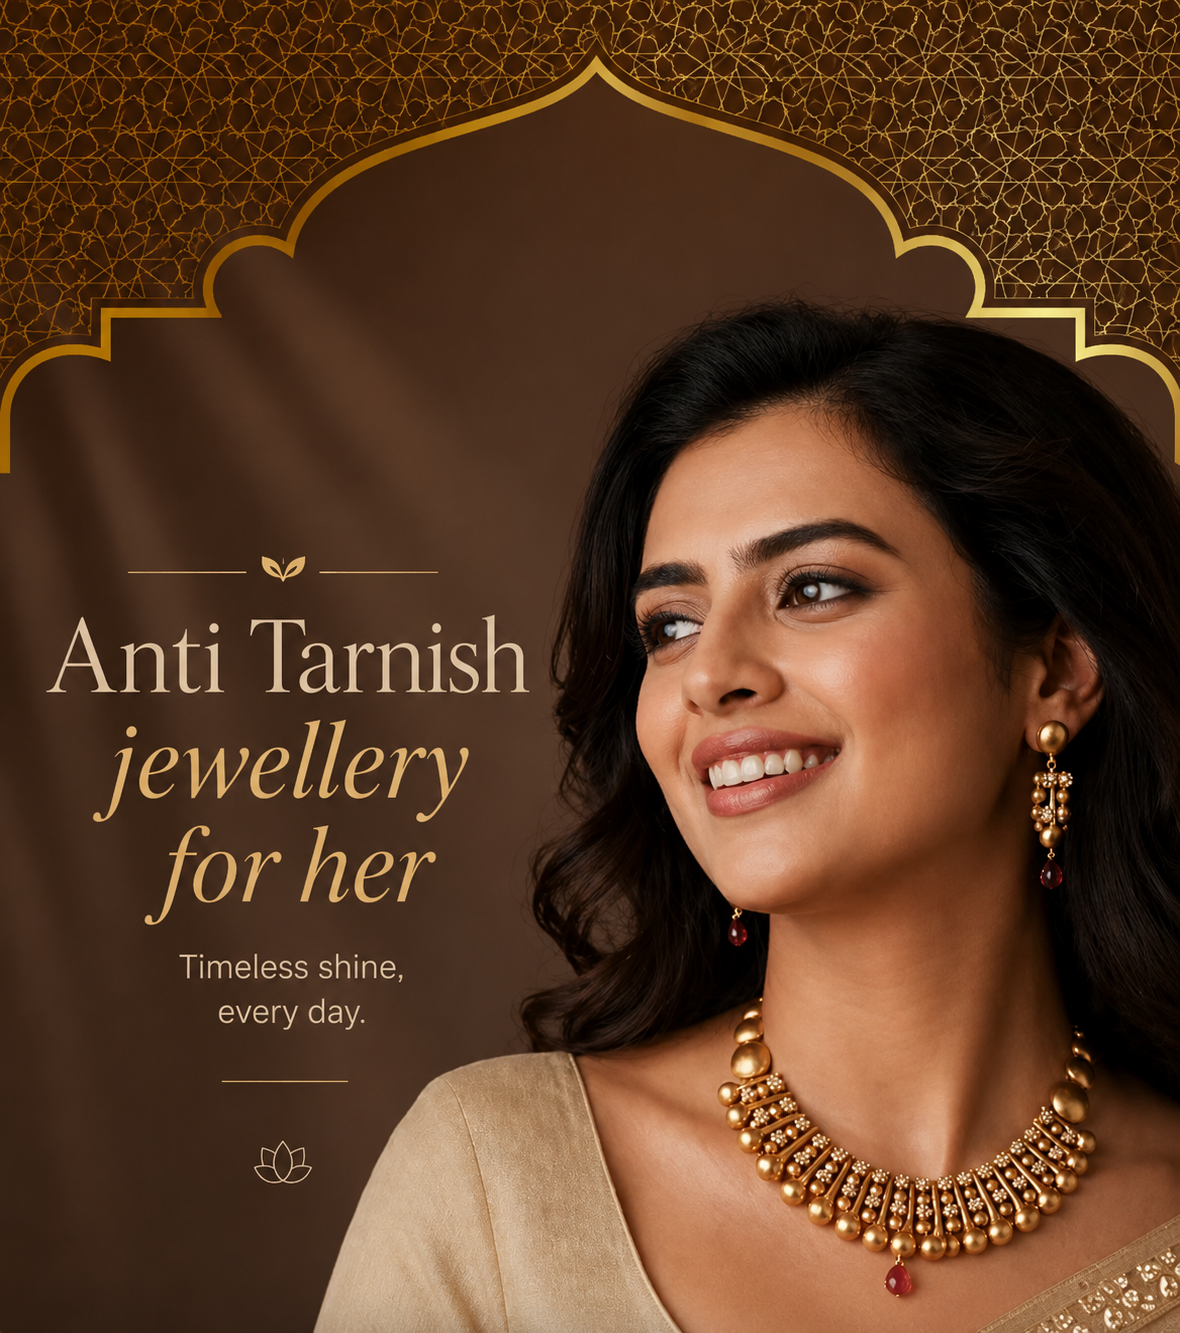
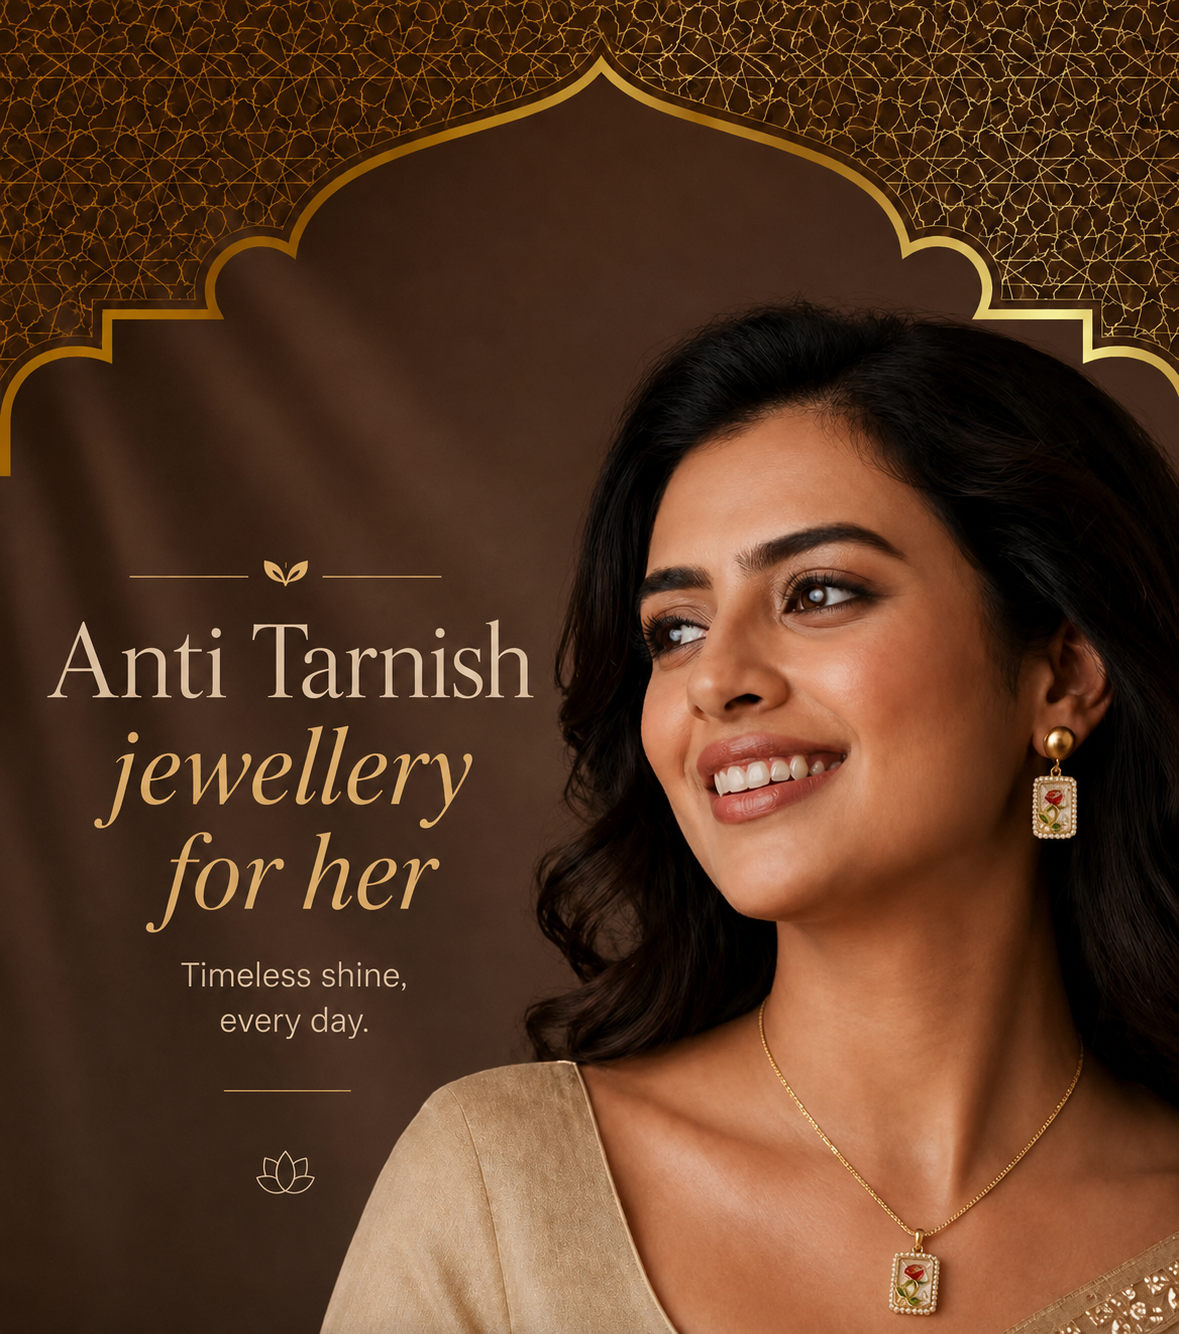
updates made

diff --git a/src/components/home/shop-by-gender.tsx b/src/components/home/shop-by-gender.tsx
@@ -13,16 +13,16 @@ export function ShopByGender() {
         <span className="hidden h-px w-24 bg-gradient-to-r from-transparent via-[var(--gold)] to-transparent sm:block" />
       </div>
 
-      <div className="grid grid-cols-1 sm:grid-cols-2">
+      <div className="grid grid-cols-1 items-start sm:grid-cols-2">
         <Link
           href={"/collections/anti-tarnish-womens" as Route}
-          className="focus-ring group relative block overflow-hidden"
+          className="focus-ring group block overflow-hidden"
         >
           <Image
             src="/assets/AntiTarnishForHer.png"
             alt="Anti Tarnish jewellery for her"
-            width={1180}
-            height={1333}
+            width={1179}
+            height={1334}
             sizes="(min-width: 640px) 50vw, 100vw"
             className="h-auto w-full transition-transform duration-700 group-hover:scale-[1.02]"
           />
@@ -30,7 +30,7 @@ export function ShopByGender() {
 
         <Link
           href={"/collections/anti-tarnish-mens" as Route}
-          className="focus-ring group relative block overflow-hidden"
+          className="focus-ring group block overflow-hidden"
         >
           <Image
             src="/assets/AntiTarnishForHim.png"

diff --git a/src/lib/shopify-collections.ts b/src/lib/shopify-collections.ts
@@ -77,7 +77,7 @@ export type ShopifyCollectionMeta = {
   image: string | null;
 };
 
-const BANGLE_SIZES = ["2/4", "2/6", "2/8"] as const;
+const BANGLE_SIZES = ["2-2", "2-4", "2-6", "2-8"] as const;
 
 function isBangle(node: ShopifyProductNode, collectionHandle: string): boolean {
   const name = node.title.toLowerCase();
@@ -107,10 +107,11 @@ function mapNode(node: ShopifyProductNode, collectionHandle: string): Product {
     node.tags.some((t) => t.toLowerCase().includes("rakhi")) ||
     collectionHandle === "rakhis" ||
     collectionHandle === "rakhi";
-  const material =
+  const rawMaterial =
     metafields.find((m) => m.key === "material")?.value ??
     node.tags.find((t) => t.startsWith("material:"))?.replace("material:", "") ??
     (isRakhi ? "Handcrafted" : deriveMaterialTag(node.description));
+  const material = rawMaterial?.toLowerCase() === "copper" ? "High Gold" : rawMaterial;
   const stone =
     metafields.find((m) => m.key === "stone")?.value ??
     node.tags.find((t) => t.startsWith("stone:"))?.replace("stone:", "") ??

diff --git a/src/components/product/product-actions.tsx b/src/components/product/product-actions.tsx
@@ -93,7 +93,7 @@ export function ProductActions({ productId, slug, productName, image, material, 
                 style={{
                   border:      selectedSize === s ? "1.5px solid var(--gold)" : "1.5px solid rgba(138,106,58,0.3)",
                   background:  selectedSize === s ? "var(--gold)" : "transparent",
-                  color:       selectedSize === s ? "var(--bg-dark)" : "var(--foreground)",
+                  color:       selectedSize === s ? "var(--bg-dark)" : "var(--cream)",
                 }}>
                 {s}
               </button>

diff --git a/src/data/catalog.ts b/src/data/catalog.ts
@@ -133,6 +133,7 @@ export const products: Product[] = [
     weight: "22.3g",
     purity: "916 BIS Hallmark",
     badge: "Bestseller",
+    sizes: ["2-2", "2-4", "2-6", "2-8"],
     description:
       "The Tara Kada is our most-loved piece for a reason — the slight taper from back to front makes it lighter on the wrist than its weight suggests, while the hand-engraved border adds depth without fussiness. It slides on over most wrists without a clasp, and complements both ethnic and contemporary dressing.",
   },
